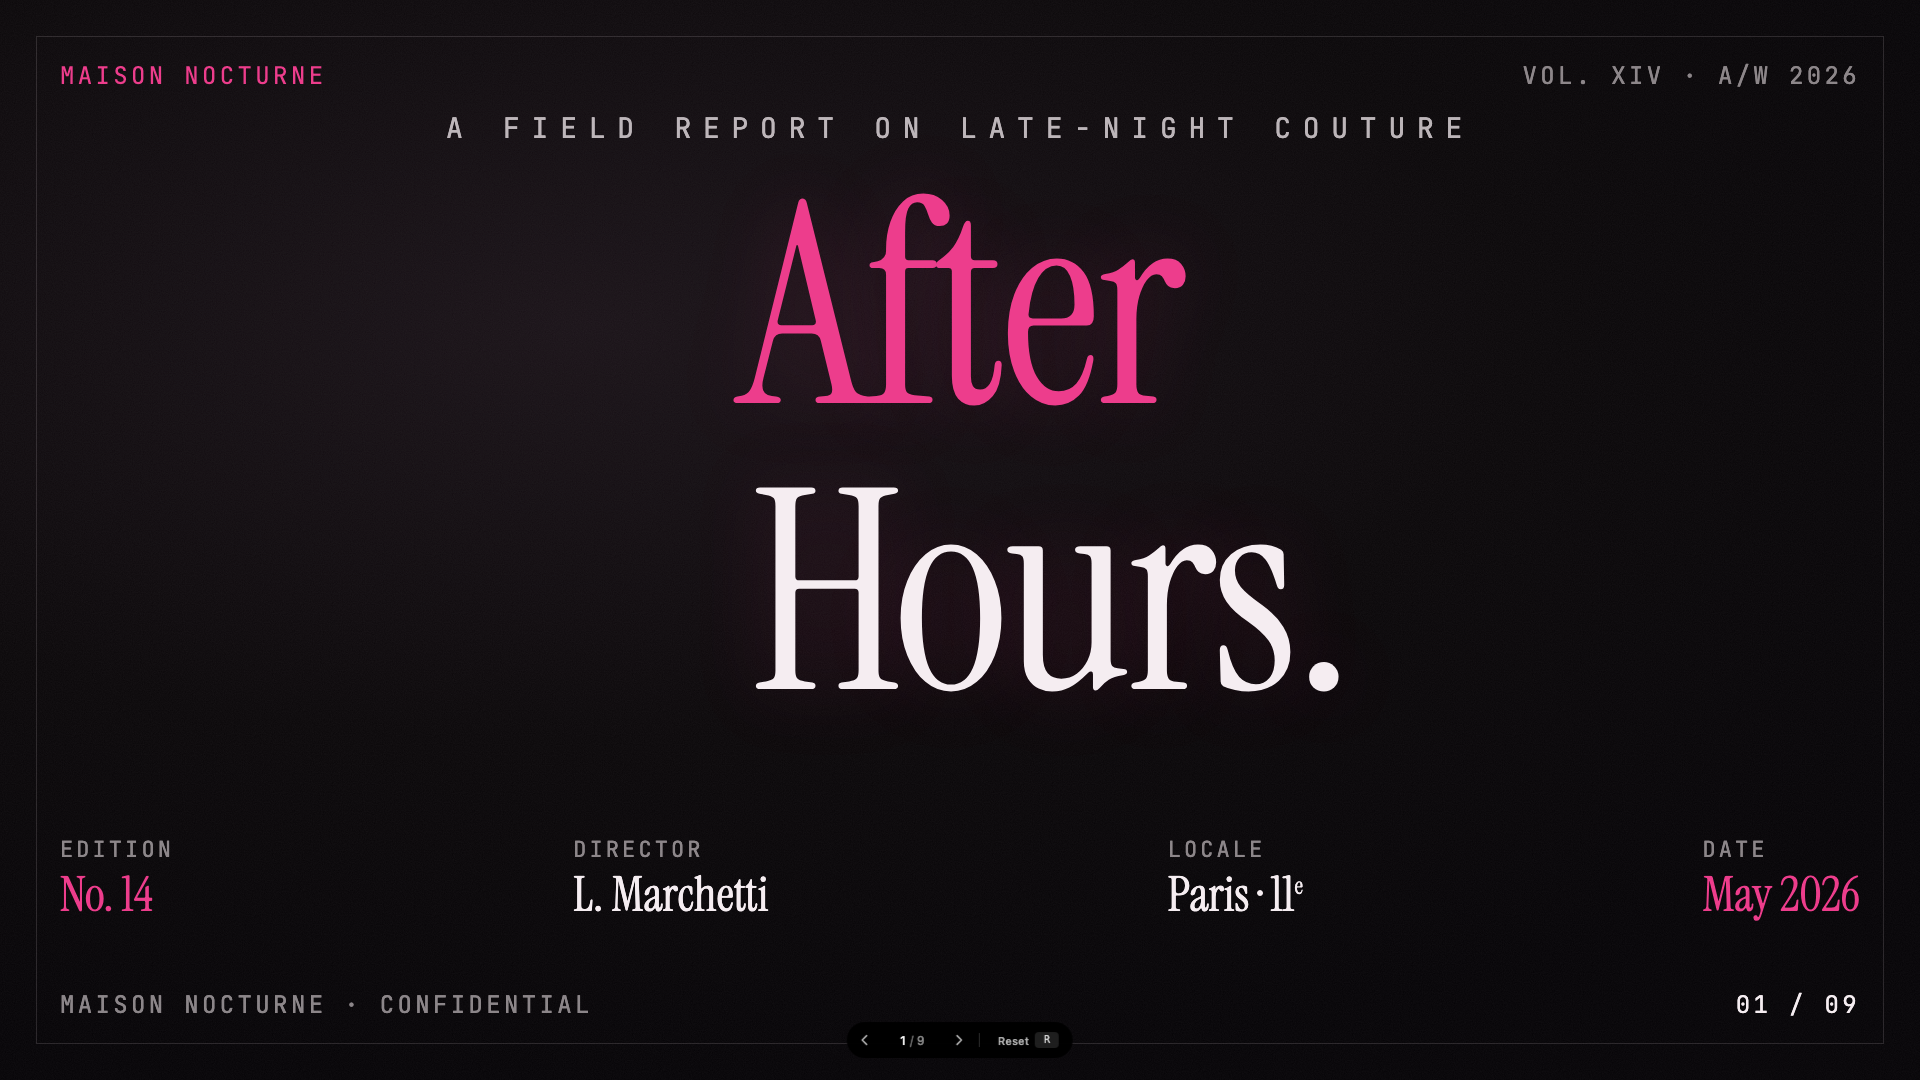
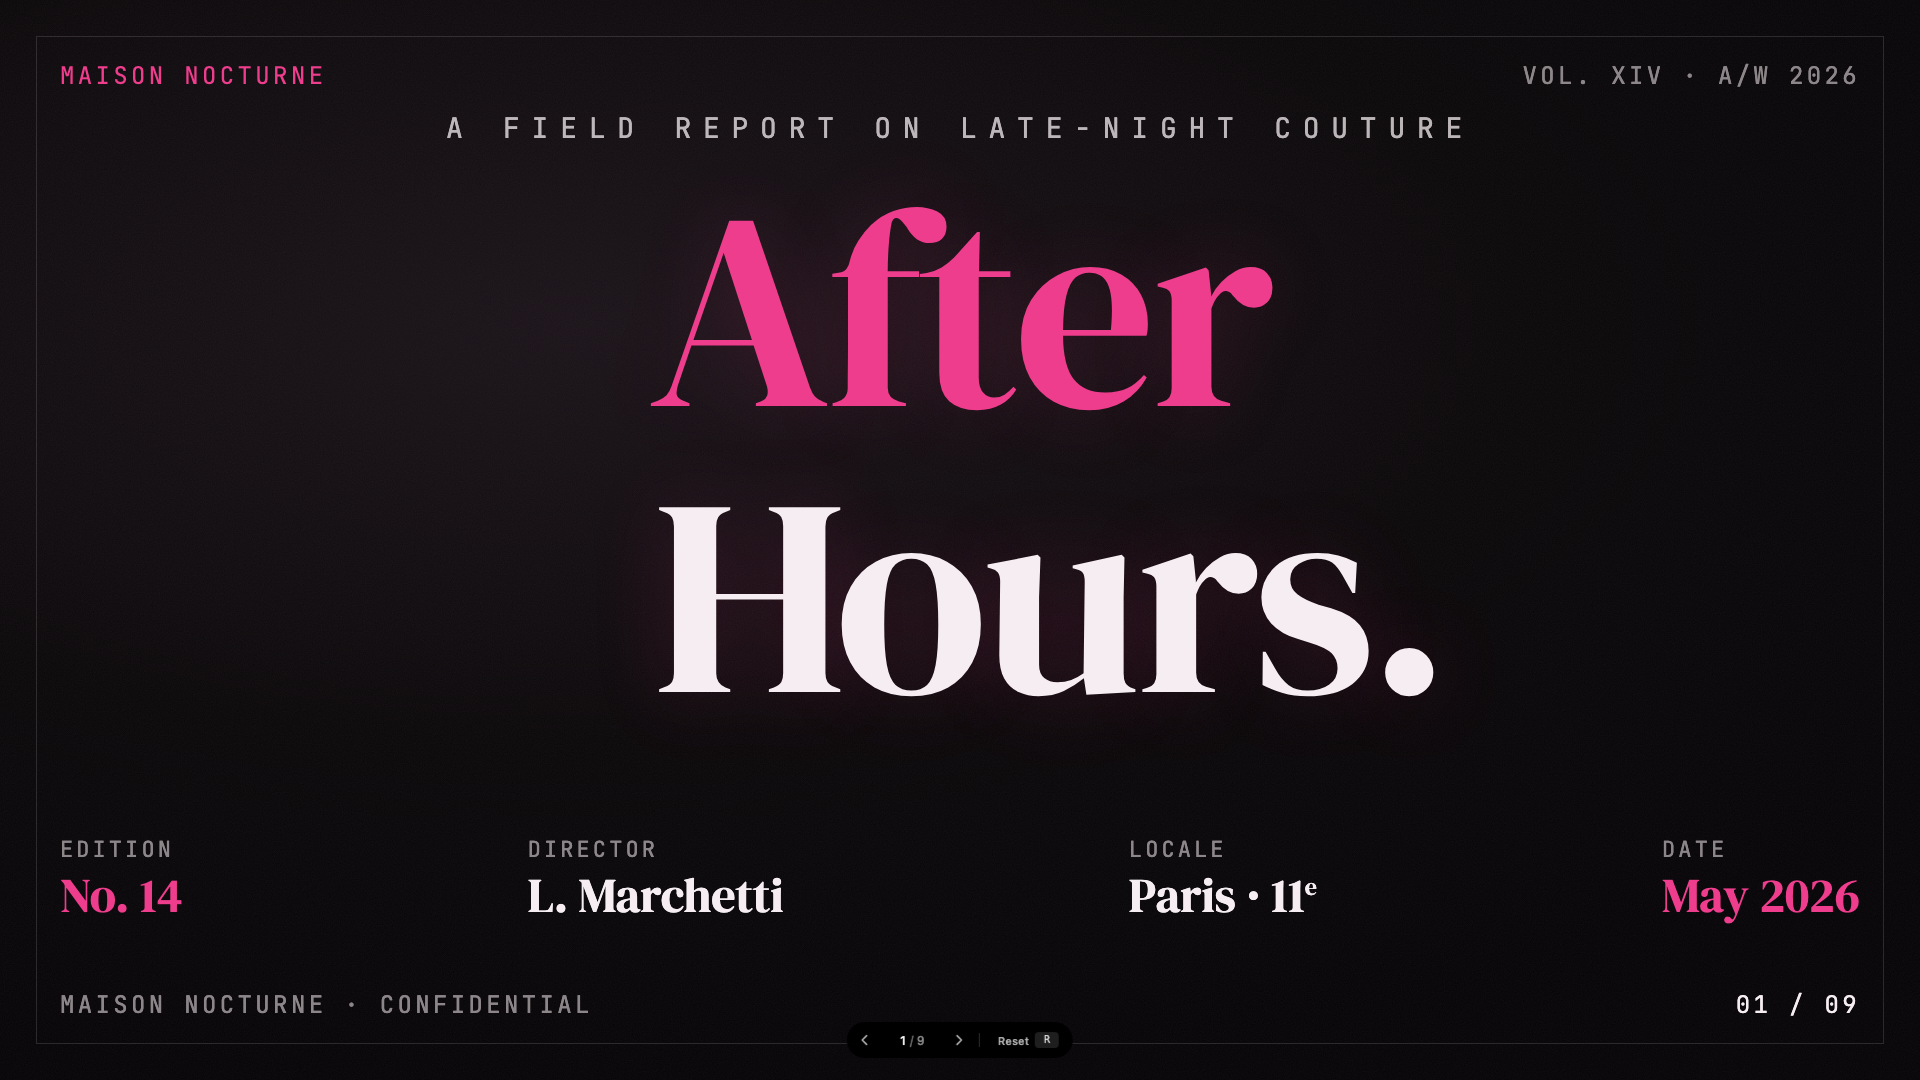
swap pink-script display font from Instrument Serif to DM Serif Display
Instrument Serif is on the banned-typefaces list in the project's
CLAUDE.md. DM Serif Display retains the high-contrast fashion-magazine
character (Bodoni-style strokes, elegant terminals) while staying
on-spec. Refreshed the 3 gallery screenshots (1, 4, 8).

diff --git a/templates/pink-script/template.html b/templates/pink-script/template.html
@@ -5,7 +5,7 @@
 <title>Pink Script — After Hours</title>
 <link rel="preconnect" href="https://fonts.googleapis.com">
 <link rel="preconnect" href="https://fonts.gstatic.com" crossorigin>
-<link href="https://fonts.googleapis.com/css2?family=Instrument+Serif:ital@0;1&family=Inter:wght@300;400;500;600&family=JetBrains+Mono:wght@400;500&display=swap" rel="stylesheet">
+<link href="https://fonts.googleapis.com/css2?family=DM+Serif+Display:ital@0&family=Inter:wght@300;400;500;600&family=JetBrains+Mono:wght@400;500&display=swap" rel="stylesheet">
 <script src="deck-stage.js"></script>
 <style>
   :root{
@@ -66,7 +66,7 @@
 
   /* shared display script */
   .script {
-    font-family: "Instrument Serif", serif;
+    font-family: "DM Serif Display", serif;
     
     font-weight: 400;
     color: var(--pink);
@@ -101,7 +101,7 @@
   .s-cover .pre { font-family: "JetBrains Mono", monospace; font-size: 28px; letter-spacing: .42em; text-transform: uppercase; color: var(--paper); opacity: .75; }
   .s-cover .title-wrap { position: relative; }
   .s-cover .title {
-    font-family: "Instrument Serif", serif; 
+    font-family: "DM Serif Display", serif; 
     color: var(--pink); font-size: 280px; line-height: 1.02; letter-spacing: -.015em;
     text-align: center;
     text-shadow: 0 0 80px rgba(237,61,140,.18);
@@ -116,17 +116,17 @@
   .s-cover .lower { position: absolute; left: 60px; right: 60px; bottom: 160px; display: flex; justify-content: space-between; align-items: end; gap: 32px; }
   .s-cover .lower .col { display: flex; flex-direction: column; gap: 6px; }
   .s-cover .lower .lab { font-family: "JetBrains Mono", monospace; font-size: 22px; letter-spacing: .14em; text-transform: uppercase; color: var(--mute); }
-  .s-cover .lower .val { font-family: "Instrument Serif", serif; font-size: 48px; color: var(--pink); line-height: 1.05; }
+  .s-cover .lower .val { font-family: "DM Serif Display", serif; font-size: 48px; color: var(--pink); line-height: 1.05; }
   .s-cover .lower .val.alt { color: var(--paper); }
 
   /* ============== 2. THE INDEX (TOC) ======================= */
   .s-toc .body { position: absolute; inset: 140px 60px 140px 60px; display: grid; grid-template-columns: 480px 1fr; gap: 80px; }
-  .s-toc h1 { font-family: "Instrument Serif", serif; font-size: 220px; line-height: 1.04; color: var(--pink); padding-bottom: .12em; }
+  .s-toc h1 { font-family: "DM Serif Display", serif; font-size: 220px; line-height: 1.04; color: var(--pink); padding-bottom: .12em; }
   .s-toc h1 .small { display: block; font-size: 80px; color: var(--paper); margin-top: 16px; opacity: .8; }
   .s-toc .rows { display: flex; flex-direction: column; }
   .s-toc .row { display: grid; grid-template-columns: 110px 1fr 200px; gap: 32px; align-items: baseline; padding: 26px 0; border-bottom: 1px solid var(--hair); }
-  .s-toc .row .num { font-family: "Instrument Serif", serif; font-size: 64px; color: var(--pink); line-height: 1; }
-  .s-toc .row .title { font-family: "Instrument Serif", serif; font-size: 56px; color: var(--paper); line-height: 1.05; }
+  .s-toc .row .num { font-family: "DM Serif Display", serif; font-size: 64px; color: var(--pink); line-height: 1; }
+  .s-toc .row .title { font-family: "DM Serif Display", serif; font-size: 56px; color: var(--paper); line-height: 1.05; }
   .s-toc .row .desc { font-family: "Inter", sans-serif; font-size: 24px; color: var(--mute); margin-top: 8px; line-height: 1.4; font-style: normal; }
   .s-toc .row .meta { font-family: "JetBrains Mono", monospace; font-size: 24px; letter-spacing: .12em; text-transform: uppercase; color: var(--mute); text-align: right; }
   .s-toc .row.cur .num, .s-toc .row.cur .title { color: var(--pink); }
@@ -135,13 +135,13 @@
   .s-stats .body { position: absolute; inset: 140px 60px 140px 60px; display: grid; grid-template-columns: 1fr 1.05fr; gap: 60px; }
   .s-stats .left { display: flex; flex-direction: column; justify-content: space-between; padding-right: 20px; }
   .s-stats .left .kicker { font-family: "JetBrains Mono", monospace; font-size: 24px; letter-spacing: .18em; text-transform: uppercase; color: var(--pink); }
-  .s-stats .left h2 { font-family: "Instrument Serif", serif; font-size: 132px; line-height: 1.06; color: var(--paper); padding-bottom: .1em; }
+  .s-stats .left h2 { font-family: "DM Serif Display", serif; font-size: 132px; line-height: 1.06; color: var(--paper); padding-bottom: .1em; }
   .s-stats .left h2 em { color: var(--pink); }
   .s-stats .left p { font-family: "Inter", sans-serif; font-size: 24px; line-height: 1.55; color: var(--paper); opacity: .75; max-width: 36ch; font-weight: 300; }
   .s-stats .right { display: flex; flex-direction: column; gap: 18px; padding-top: 0; }
   .s-stats .stat { display: grid; grid-template-columns: 240px 1fr; align-items: center; gap: 28px; padding-bottom: 16px; border-bottom: 1px solid var(--hair); }
   .s-stats .stat:last-child { border-bottom: 0; padding-bottom: 0; }
-  .s-stats .stat .figure { font-family: "Instrument Serif", serif; font-size: 116px; line-height: .9; color: var(--pink); display: flex; align-items: baseline; }
+  .s-stats .stat .figure { font-family: "DM Serif Display", serif; font-size: 116px; line-height: .9; color: var(--pink); display: flex; align-items: baseline; }
   .s-stats .stat .figure sup { font-size: 36px; color: var(--paper); vertical-align: top; margin-left: 4px; line-height: 1; align-self: flex-start; padding-top: 18px; }
   .s-stats .stat .meta .lab { font-family: "JetBrains Mono", monospace; font-size: 22px; letter-spacing: .14em; text-transform: uppercase; color: var(--paper); }
   .s-stats .stat .meta .desc { font-family: "Inter", sans-serif; font-size: 24px; color: var(--mute); margin-top: 8px; line-height: 1.45; font-weight: 300; }
@@ -150,7 +150,7 @@
   .s-section .body { position: absolute; inset: 0; display: flex; align-items: center; justify-content: center; }
   .s-section .body { justify-content: flex-start; padding-left: 200px; }
   .s-section .num {
-    font-family: "Instrument Serif", serif; 
+    font-family: "DM Serif Display", serif; 
     color: var(--pink);
     font-size: 600px; line-height: .82; letter-spacing: -.02em;
     text-shadow: 0 0 120px rgba(237,61,140,.22);
@@ -158,12 +158,12 @@
   .s-section .label-l { position: absolute; left: 80px; top: auto; bottom: 140px; transform: rotate(-90deg); transform-origin: left bottom; font-family: "JetBrains Mono", monospace; font-size: 22px; letter-spacing: .42em; text-transform: uppercase; color: var(--mute); white-space: nowrap; }
   .s-section .right { position: absolute; right: 100px; top: 50%; transform: translateY(-50%); display: flex; flex-direction: column; gap: 18px; max-width: 380px; }
   .s-section .right .kicker { font-family: "JetBrains Mono", monospace; font-size: 22px; letter-spacing: .14em; text-transform: uppercase; color: var(--pink); }
-  .s-section .right h2 { font-family: "Instrument Serif", serif; font-size: 88px; line-height: 1.06; color: var(--paper); padding-bottom: .1em; }
+  .s-section .right h2 { font-family: "DM Serif Display", serif; font-size: 88px; line-height: 1.06; color: var(--paper); padding-bottom: .1em; }
   .s-section .right p  { font-family: "Inter", sans-serif; font-size: 24px; line-height: 1.55; color: var(--mute); font-weight: 300; }
 
   /* ============== 5. THE CURVE · CHART ===================== */
   .s-chart .head { position: absolute; left: 60px; right: 60px; top: 140px; display: flex; align-items: end; justify-content: space-between; gap: 80px; }
-  .s-chart .head h2 { font-family: "Instrument Serif", serif; font-size: 90px; line-height: 1.06; color: var(--paper); max-width: 18ch; padding-bottom: .1em; }
+  .s-chart .head h2 { font-family: "DM Serif Display", serif; font-size: 90px; line-height: 1.06; color: var(--paper); max-width: 18ch; padding-bottom: .1em; }
   .s-chart .head h2 em { color: var(--pink); }
   .s-chart .head .legend { display: flex; flex-direction: column; gap: 14px; align-items: flex-end; }
   .s-chart .head .legend .li { display: flex; align-items: center; gap: 14px; font-family: "JetBrains Mono", monospace; font-size: 22px; letter-spacing: .12em; text-transform: uppercase; color: var(--paper); }
@@ -180,19 +180,19 @@
     display: flex; flex-direction: column; gap: 8px; width: 360px; align-items: flex-end; text-align: right; justify-content: flex-start;
     border-left: 1px solid var(--pink); padding-left: 24px; padding-top: 4px;
   }
-  .s-chart .callout .num { font-family: "Instrument Serif", serif; font-size: 120px; line-height: .9; color: var(--pink); }
+  .s-chart .callout .num { font-family: "DM Serif Display", serif; font-size: 120px; line-height: .9; color: var(--pink); }
   .s-chart .callout .lab { font-family: "JetBrains Mono", monospace; font-size: 22px; letter-spacing: .14em; text-transform: uppercase; color: var(--paper); }
   .s-chart .callout .desc { font-family: "Inter", sans-serif; font-size: 22px; color: var(--mute); line-height: 1.4; font-weight: 300; }
 
   /* ============== 6. PROCESS · DIAGRAM ===================== */
   .s-process .head { position: absolute; left: 60px; right: 60px; top: 140px; display: flex; align-items: end; justify-content: space-between; gap: 60px; }
-  .s-process .head h2 { font-family: "Instrument Serif", serif; font-size: 156px; line-height: 1.04; color: var(--paper); max-width: 12ch; padding-bottom: .1em; }
+  .s-process .head h2 { font-family: "DM Serif Display", serif; font-size: 156px; line-height: 1.04; color: var(--paper); max-width: 12ch; padding-bottom: .1em; }
   .s-process .head h2 em { color: var(--pink); }
   .s-process .head .lead { font-family: "Inter", sans-serif; font-size: 26px; color: var(--mute); max-width: 40ch; line-height: 1.55; font-weight: 300; padding-bottom: 18px; }
   .s-process .row { position: absolute; left: 60px; right: 60px; top: 540px; display: grid; grid-template-columns: repeat(5, 1fr); gap: 24px; }
   .s-process .step { position: relative; display: flex; flex-direction: column; gap: 18px; padding: 26px 0; border-top: 1px solid var(--pink); }
-  .s-process .step .n { font-family: "Instrument Serif", serif; font-size: 96px; color: var(--pink); line-height: .8; }
-  .s-process .step h3 { font-family: "Instrument Serif", serif; font-size: 38px; color: var(--paper); line-height: 1.05; }
+  .s-process .step .n { font-family: "DM Serif Display", serif; font-size: 96px; color: var(--pink); line-height: .8; }
+  .s-process .step h3 { font-family: "DM Serif Display", serif; font-size: 38px; color: var(--paper); line-height: 1.05; }
   .s-process .step p { font-family: "Inter", sans-serif; font-size: 22px; color: var(--mute); line-height: 1.5; font-weight: 300; }
   .s-process .step .arr {
     position: absolute; right: -16px; top: 60px; width: 24px; height: 24px;
@@ -204,13 +204,13 @@
 
   /* ============== 7. THE FIELD · COMPARISON ================ */
   .s-matrix .head { position: absolute; left: 60px; right: 60px; top: 140px; display: flex; align-items: end; justify-content: space-between; gap: 60px; }
-  .s-matrix .head h2 { font-family: "Instrument Serif", serif; font-size: 132px; line-height: 1.04; color: var(--paper); max-width: 14ch; padding-bottom: .1em; }
+  .s-matrix .head h2 { font-family: "DM Serif Display", serif; font-size: 132px; line-height: 1.04; color: var(--paper); max-width: 14ch; padding-bottom: .1em; }
   .s-matrix .head h2 em { color: var(--pink); }
   .s-matrix .head .source { font-family: "JetBrains Mono", monospace; font-size: 22px; letter-spacing: .14em; text-transform: uppercase; color: var(--mute); padding-bottom: 18px; max-width: 30ch; line-height: 1.5; text-align: right; }
   .s-matrix .table { position: absolute; left: 60px; right: 60px; top: 460px; bottom: 140px; display: grid; grid-template-columns: 1.4fr 1fr 1fr 1fr; grid-auto-rows: 1fr; }
   .s-matrix .cell { padding: 16px 24px; border-bottom: 1px solid var(--line); display: flex; align-items: center; font-family: "Inter", sans-serif; font-size: 22px; line-height: 1.4; color: var(--paper); font-weight: 300; }
   .s-matrix .cell.colhead { background: transparent; font-family: "JetBrains Mono", monospace; font-size: 22px; letter-spacing: .14em; text-transform: uppercase; color: var(--pink); border-bottom-color: var(--pink); }
-  .s-matrix .cell.label { font-family: "Instrument Serif", serif; font-size: 32px; color: var(--paper); }
+  .s-matrix .cell.label { font-family: "DM Serif Display", serif; font-size: 32px; color: var(--paper); }
   .s-matrix .cell.us { background: rgba(237,61,140,.08); color: var(--paper); }
   .s-matrix .pill { display: inline-block; padding: 6px 14px; font-family: "JetBrains Mono", monospace; font-size: 16px; letter-spacing: .08em; text-transform: uppercase; border: 1px solid var(--pink); white-space: nowrap; line-height: 1.2; color: var(--pink); }
   .s-matrix .pill.dim { border-color: var(--hair); color: var(--mute); }
@@ -219,24 +219,24 @@
   /* ============== 8. VOICES · QUOTE ======================== */
   .s-quote .body { position: absolute; inset: 140px 60px 140px 60px; display: grid; grid-template-columns: 320px 1fr; gap: 80px; align-items: center; }
   .s-quote .left { display: flex; flex-direction: column; gap: 28px; }
-  .s-quote .left .qmark { font-family: "Instrument Serif", serif; font-size: 320px; color: var(--pink); line-height: .65; }
+  .s-quote .left .qmark { font-family: "DM Serif Display", serif; font-size: 320px; color: var(--pink); line-height: .65; }
   .s-quote .left .lab { font-family: "JetBrains Mono", monospace; font-size: 22px; letter-spacing: .14em; text-transform: uppercase; color: var(--mute); }
-  .s-quote .right blockquote { font-family: "Instrument Serif", serif; font-size: 92px; line-height: 1.05; color: var(--paper); letter-spacing: -.005em; }
+  .s-quote .right blockquote { font-family: "DM Serif Display", serif; font-size: 92px; line-height: 1.05; color: var(--paper); letter-spacing: -.005em; }
   .s-quote .right blockquote em { color: var(--pink); }
   .s-quote .attr { display: flex; align-items: baseline; gap: 24px; margin-top: 60px; padding-top: 28px; border-top: 1px solid var(--pink); }
-  .s-quote .attr .who { font-family: "Instrument Serif", serif; font-size: 48px; color: var(--paper); }
+  .s-quote .attr .who { font-family: "DM Serif Display", serif; font-size: 48px; color: var(--paper); }
   .s-quote .attr .role { font-family: "JetBrains Mono", monospace; font-size: 22px; letter-spacing: .14em; text-transform: uppercase; color: var(--pink); }
 
   /* ============== 9. ENCORE · CTA ========================== */
   .s-cta .body { position: absolute; inset: 140px 60px 140px 60px; display: flex; flex-direction: column; justify-content: space-between; }
   .s-cta .top { display: flex; flex-direction: column; gap: 12px; }
   .s-cta .top .pre { font-family: "JetBrains Mono", monospace; font-size: 26px; letter-spacing: .24em; text-transform: uppercase; color: var(--pink); }
-  .s-cta .top h2 { font-family: "Instrument Serif", serif; font-size: 140px; line-height: 1.04; color: var(--paper); letter-spacing: -.015em; padding-bottom: .1em; }
+  .s-cta .top h2 { font-family: "DM Serif Display", serif; font-size: 140px; line-height: 1.04; color: var(--paper); letter-spacing: -.015em; padding-bottom: .1em; }
   .s-cta .top h2 em { color: var(--pink); }
   .s-cta .bottom { display: grid; grid-template-columns: repeat(3, 1fr) 280px; gap: 48px; align-items: end; }
   .s-cta .step { display: flex; flex-direction: column; gap: 16px; padding-top: 22px; border-top: 1px solid var(--pink); }
-  .s-cta .step .n { font-family: "Instrument Serif", serif; font-size: 64px; color: var(--pink); line-height: 1; }
-  .s-cta .step h3 { font-family: "Instrument Serif", serif; font-size: 44px; color: var(--paper); line-height: 1.05; }
+  .s-cta .step .n { font-family: "DM Serif Display", serif; font-size: 64px; color: var(--pink); line-height: 1; }
+  .s-cta .step h3 { font-family: "DM Serif Display", serif; font-size: 44px; color: var(--paper); line-height: 1.05; }
   .s-cta .step p { font-family: "Inter", sans-serif; font-size: 22px; color: var(--mute); line-height: 1.5; font-weight: 300; }
   .s-cta .qr { display: flex; flex-direction: column; gap: 14px; align-items: flex-end; }
   .s-cta .qr .box { width: 180px; height: 180px; background: var(--paper); padding: 12px; }
@@ -247,7 +247,7 @@
   /* ============== 10. THE SYSTEM · DESIGN SYSTEM ============ */
   .s-system .body { position: absolute; inset: 140px 60px 140px 60px; display: grid; grid-template-columns: 1fr 1fr; gap: 60px; }
   .s-system .head { position: absolute; left: 60px; right: 60px; top: 140px; }
-  .s-system .head h2 { font-family: "Instrument Serif", serif; font-size: 132px; color: var(--paper); }
+  .s-system .head h2 { font-family: "DM Serif Display", serif; font-size: 132px; color: var(--paper); }
   .s-system .head h2 em { color: var(--pink); }
   .s-system .body { top: 320px; }
   .s-system .panel { display: flex; flex-direction: column; gap: 22px; padding-top: 22px; border-top: 1px solid var(--pink); }
@@ -261,15 +261,15 @@
   .s-system .typerow { display: grid; grid-template-columns: 240px 1fr; gap: 24px; align-items: baseline; padding-bottom: 12px; border-bottom: 1px dashed var(--hair); }
   .s-system .typerow .meta { font-family: "JetBrains Mono", monospace; font-size: 22px; letter-spacing: .08em; color: var(--mute); text-transform: uppercase; }
   .s-system .typerow .sample { color: var(--paper); }
-  .s-system .typerow .sample.script { font-family: "Instrument Serif", serif; color: var(--pink); }
-  .s-system .typerow .sample.disp { font-family: "Instrument Serif", serif; }
+  .s-system .typerow .sample.script { font-family: "DM Serif Display", serif; color: var(--pink); }
+  .s-system .typerow .sample.disp { font-family: "DM Serif Display", serif; }
   .s-system .typerow .sample.body { font-family: "Inter", sans-serif; font-weight: 300; }
   .s-system .typerow .sample.mono { font-family: "JetBrains Mono", monospace; text-transform: uppercase; letter-spacing: .12em; }
   .s-system .rules { display: flex; flex-direction: column; gap: 12px; }
   .s-system .rules .item { display: grid; grid-template-columns: 64px 1fr; gap: 16px; padding: 12px 0; border-bottom: 1px solid var(--hair); }
-  .s-system .rules .item .n { font-family: "Instrument Serif", serif; font-size: 48px; color: var(--pink); line-height: .9; }
+  .s-system .rules .item .n { font-family: "DM Serif Display", serif; font-size: 48px; color: var(--pink); line-height: .9; }
   .s-system .rules .item p { font-family: "Inter", sans-serif; font-size: 22px; color: var(--paper); line-height: 1.45; font-weight: 300; }
-  .s-system .rules .item p strong { color: var(--pink); font-weight: 500; font-family: "Instrument Serif", serif; font-size: 26px; padding-right: 6px; }
+  .s-system .rules .item p strong { color: var(--pink); font-weight: 500; font-family: "DM Serif Display", serif; font-size: 26px; padding-right: 6px; }
 </style>
 </head>
 <body>
@@ -551,7 +551,7 @@
       <div class="cell"><span class="pill">By appointment</span></div>
 
       <div class="cell label">Repeat client share</div>
-      <div class="cell us"><strong style="color:var(--pink);font-family:'Instrument Serif';font-size:32px">42%</strong></div>
+      <div class="cell us"><strong style="color:var(--pink);font-family:'DM Serif Display';font-size:32px">42%</strong></div>
       <div class="cell">28%</div>
       <div class="cell">19%</div>
 
